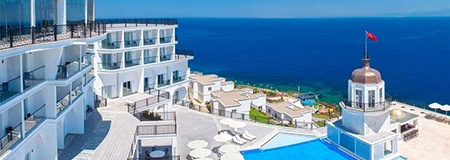
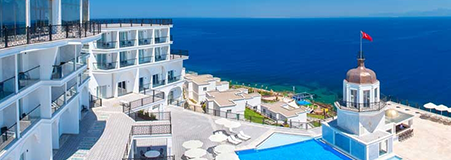
Updated for Image Size of Card Component

diff --git a/source/app/css/components/card-item.less b/source/app/css/components/card-item.less
@@ -16,8 +16,9 @@
 @card-inline-title-font-weight: 600;
 
 // fixed column
-@card-fixed-column-width: 140px;
-@card-small-fixed-column-width: 90px;
+@card-fixed-column-width: 130px;
+@card-medium-fixed-column-width: 115px;
+@card-small-fixed-column-width: 80px;
 
 // extensions
 @import "_card-item/price-group.less";
@@ -29,6 +30,7 @@
   border: solid 1px @card-border-color;
   margin: @card-margin-width 0;
 
+  // small card
   &.small-card {
     font-size: @card-small-font-size;
 
@@ -52,22 +54,40 @@
 
     }
 
+  }
 
+  // medium card
+  &.medium-card {
+
+    .card-footer {
+
+      .card-column {
+
+        &.fixed-column {
+          .responsive-min-xs({
+            width: @card-medium-fixed-column-width;
+          });
+        }
+
+      }
+
+    }
 
   }
 
+  // header and footer
   .card-header,
   .card-footer {
     position: relative;
   }
 
+  // header
   .card-header {
     margin: -1px;
 
     .card-image {
       display: block;
       width: 100%;
-      //max-height: 160px;
     }
 
     .card-shadow {
@@ -82,6 +102,7 @@
 
   }
 
+  // inline
   .card-inline {
     position: absolute;
     bottom: 0;
@@ -133,6 +154,7 @@
 
   }
 
+  // footer
   .card-footer {
     padding: 10px;
     display: table;
@@ -207,6 +229,7 @@
 
   }
 
+  // title
   .card-title {
     padding: 0;
     margin: 0;
@@ -214,6 +237,7 @@
     font-weight: @card-title-font-weight;
   }
 
+  // specifications
   .card-specifications {
     display: block;
     margin-top: 5px;
@@ -240,6 +264,7 @@
 
   }
 
+  // sticky
   .card-sticky {
     position: absolute;
     padding: 10px 0;

diff --git a/source/app/views/components/hotel-items.html b/source/app/views/components/hotel-items.html
@@ -9,7 +9,7 @@
                 </div>
 
                 <div class="col-md-11">
-                    <!-- @@include hotel-item.html {"image" : "medium"} -->
+                    <!-- @@include hotel-item.html {"image" : "medium", "class" : "medium-card"} -->
                 </div>
 
             </div>
